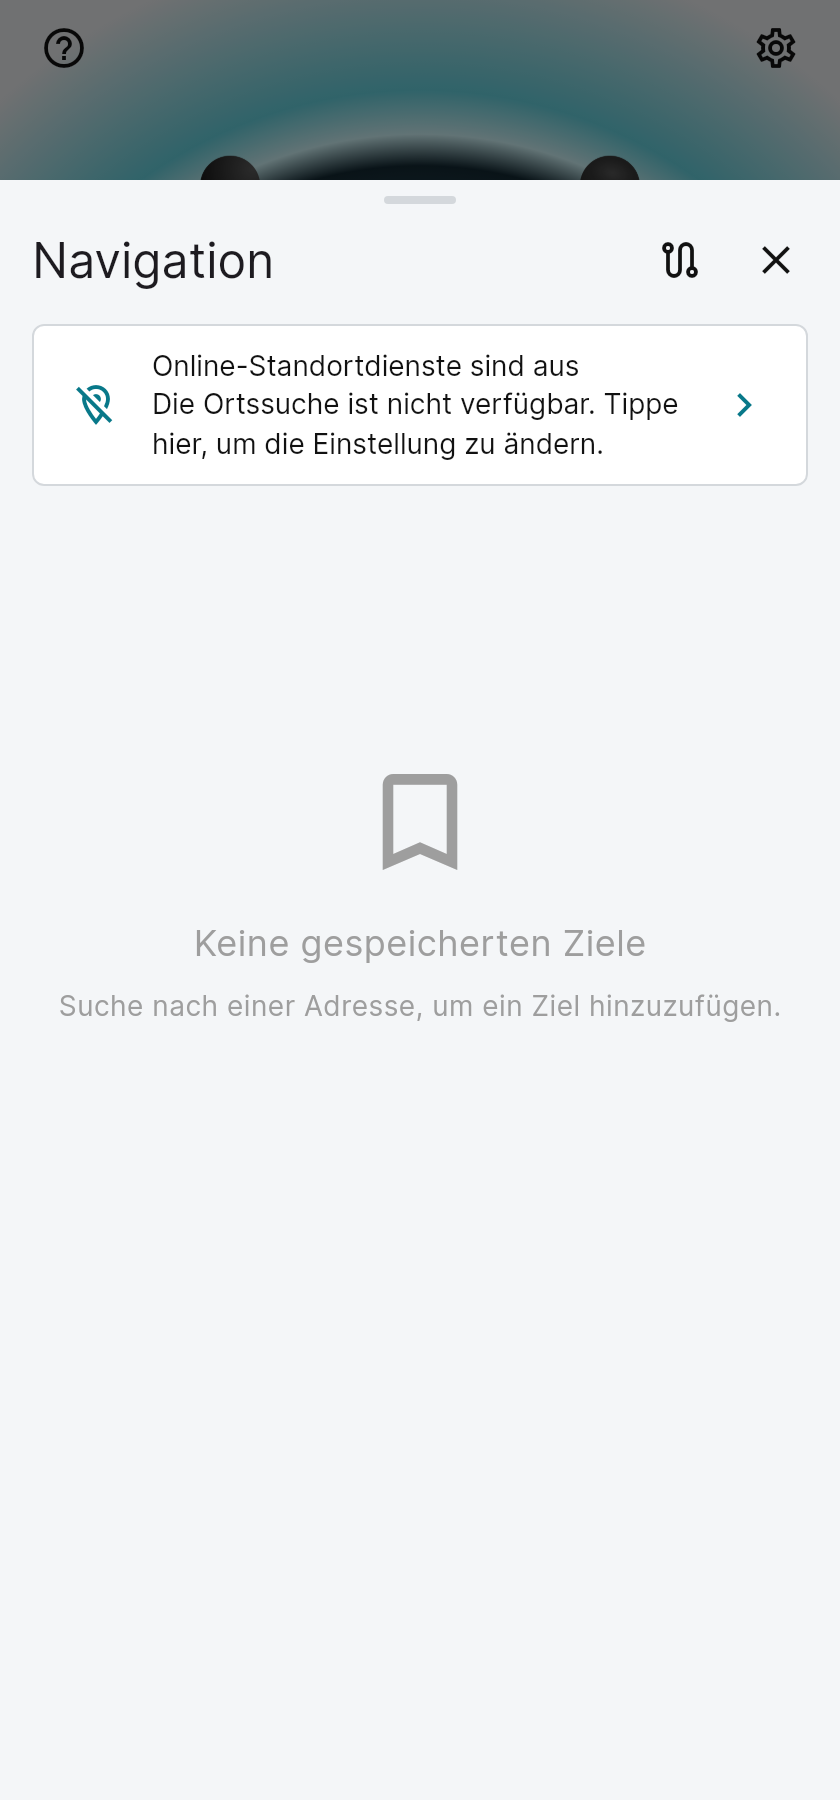
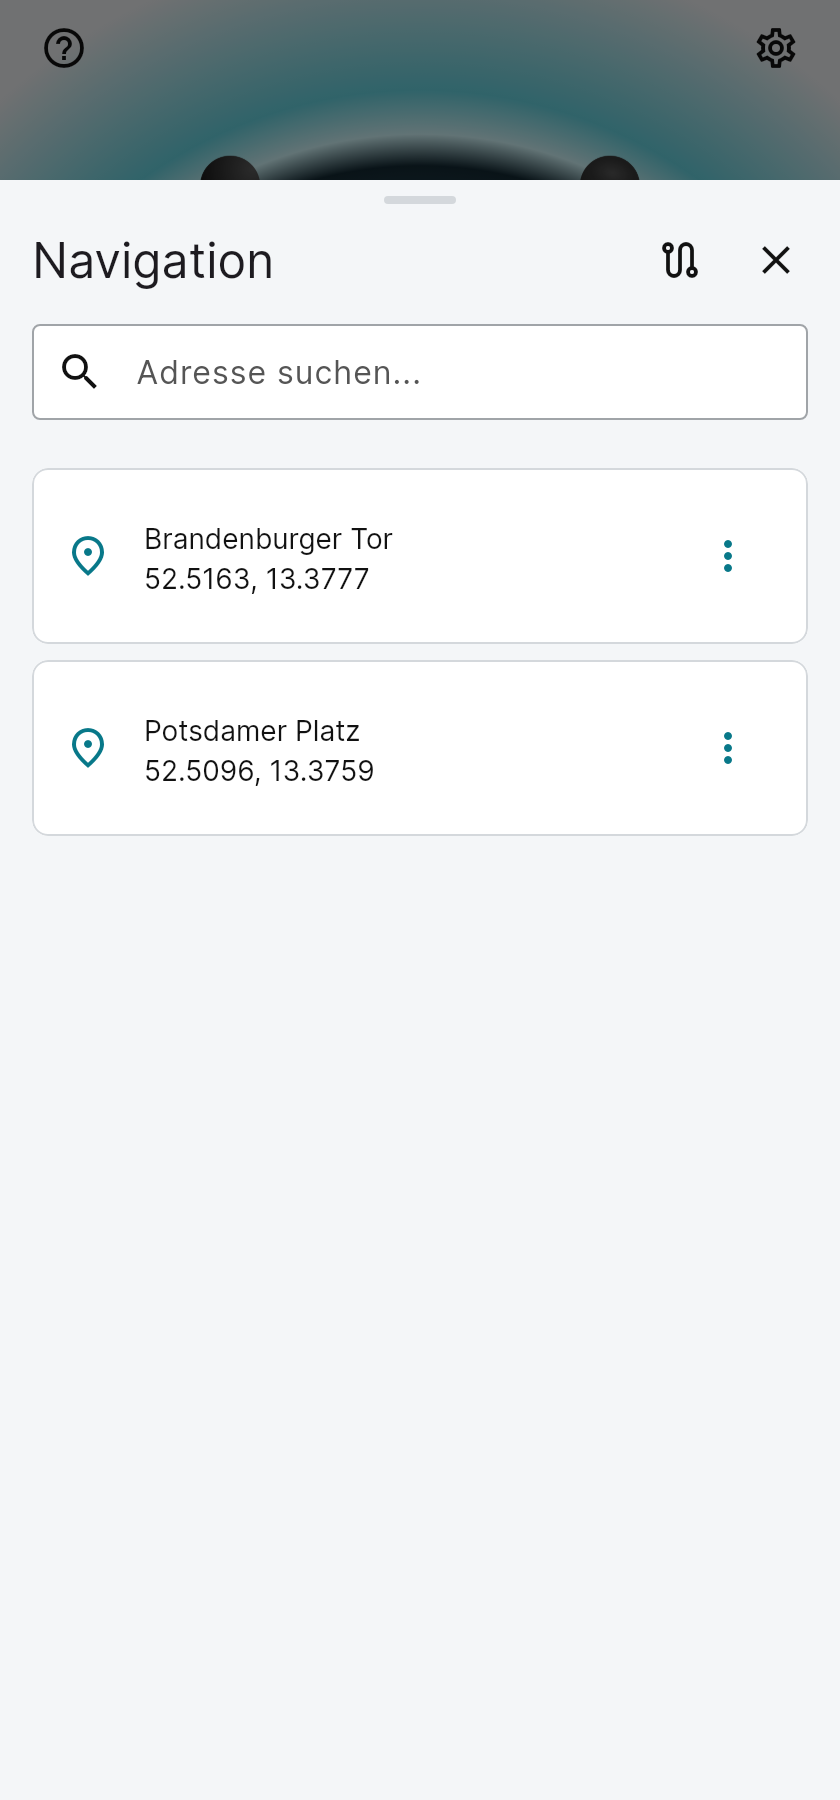
docs: show navigation with example destinations

diff --git a/tool/capture_user_guide_test.dart b/tool/capture_user_guide_test.dart
@@ -11,6 +11,8 @@ import 'package:flutter_background_service_platform_interface/flutter_background
 import 'package:flutter_i18n/flutter_i18n.dart';
 import 'package:flutter_test/flutter_test.dart';
 import 'package:provider/provider.dart';
+import 'package:latlong2/latlong.dart';
+import 'package:scooter_core/navigation.dart' as scooter;
 import 'package:shared_preferences/shared_preferences.dart';
 import 'package:shared_preferences_platform_interface/shared_preferences_async_platform_interface.dart';
 import 'package:unustasis/flutter/blue_plus_mockable.dart';
@@ -54,17 +56,29 @@ void main() {
     });
     final previous = SharedPreferencesAsyncPlatform.instance;
     SharedPreferences.setMockInitialValues({});
-    SharedPreferencesAsyncPlatform.instance = MemoryPreferences();
+    SharedPreferencesAsyncPlatform.instance = MemoryPreferences()..bools['osmConsent'] = true;
     FlutterBackgroundServicePlatform.instance = RecordingBackgroundService();
     tester.binding.defaultBinaryMessenger.setMockMethodCallHandler(
       const MethodChannel('plugins.flutter.io/local_auth'),
       (_) async => <String>[],
+    );
+    tester.binding.defaultBinaryMessenger.setMockMethodCallHandler(
+      const MethodChannel('flutter.baseflow.com/geolocator'),
+      (_) async => false,
     );
     addTearDown(() => SharedPreferencesAsyncPlatform.instance = previous);
     final service = ScooterService(_Ble(), initializeRuntime: false, isInBackgroundService: true)..addDemoData();
     service.savedScooters['12345']!.color = 7;
     service.identity.color = 7;
     service.identity.supportsPhoneKeyManagement = false;
+    await service.navigation.saveFavorite(scooter.NavigationDestination(
+      location: const LatLng(52.5163, 13.3777),
+      name: 'Brandenburger Tor',
+    ));
+    await service.navigation.saveFavorite(scooter.NavigationDestination(
+      location: const LatLng(52.5096, 13.3759),
+      name: 'Potsdamer Platz',
+    ));
     addTearDown(service.dispose);
     final boundaryKey = GlobalKey();
     await tester.pumpWidget(ChangeNotifierProvider<ScooterService>.value(
@@ -113,6 +127,9 @@ void main() {
     await tester.runAsync(() => Future<void>.delayed(const Duration(milliseconds: 500)));
     await tester.pump(const Duration(seconds: 1));
     expect(find.text('Navigation'), findsOneWidget);
+    expect(find.text('Brandenburger Tor'), findsOneWidget);
+    expect(find.text('Potsdamer Platz'), findsOneWidget);
+    expect(find.byType(TextField), findsOneWidget);
     await capture('navigation');
     await tester.tap(find.byIcon(Icons.close));
     await tester.pump(const Duration(seconds: 1));

diff --git a/docs/benutzerhandbuch.md b/docs/benutzerhandbuch.md
@@ -103,7 +103,7 @@ Die App kann Hinweise zur Identifikation eines Akkus anzeigen. Die gemeinsame Re
 
 Wische auf dem Startbildschirm nach oben, um **Navigation** zu öffnen. Auf unterstützter Librescoot-Firmware kannst du Ziele auswählen und an den Roller senden.
 
-![Navigation mit ausgeschalteten Online-Standortdiensten und ohne gespeicherte Ziele](screenshots/navigation.png)
+![Navigation mit Suchfeld und gespeicherten Beispielzielen](screenshots/navigation.png)
 
 ### Ziel suchen und starten
 
@@ -183,7 +183,7 @@ Der APN betrifft die Mobilfunkverbindung des Rollers, nicht die des Telefons. Er
 
 ### Nachrichten und Servicemodus
 
-Auf unterstützten Rollern findest du unter **Verbindung > Messages** den SMS-Eingang und eine Option zum Weiterleiten neuer Nachrichten. Dieser Bereich ist derzeit auf Englisch beschriftet. Für Weiterleitungen können Mobilfunkkosten entstehen; die App nennt die geltenden Grenzen in der Ansicht.
+Auf unterstützten Rollern findest du unter **Verbindung > Nachrichten** den SMS-Eingang und eine Option zum Weiterleiten neuer Nachrichten. Für Weiterleitungen können Mobilfunkkosten entstehen; die App nennt die geltenden Grenzen in der Ansicht.
 
 Der **Servicemodus** hält den Roller wach und USB aktiv. Dabei sind Alarm und automatische Verriegelung deaktiviert. Schalte ihn nach der Wartung wieder aus. Nutze den **Update-Modus** nur für den vorgesehenen USB-Dateiaustausch und wirf das USB-Laufwerk am Computer sicher aus, bevor du den Modus beendest.
 
